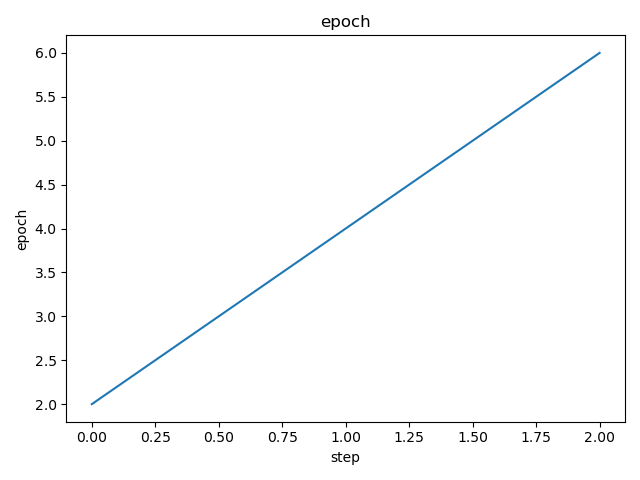
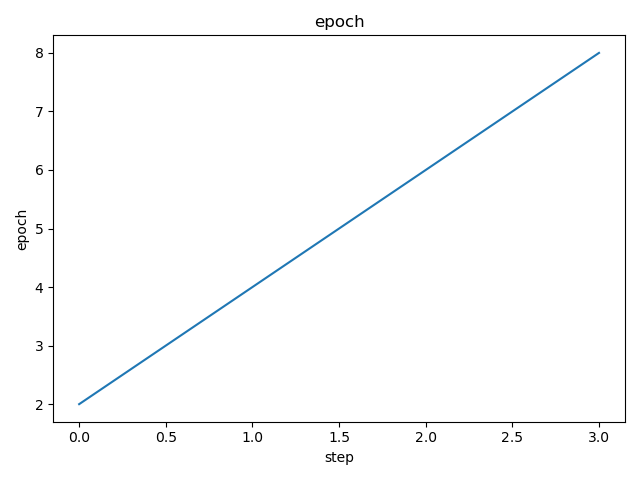
dvc: commit experiment f9097e78dc6dc1d3a90089dcf2afad87c74ec9adcf1a45dd73ff5c25e2be35ce

diff --git a/data/ogt_protein_classifier/dvclive/report.md b/data/ogt_protein_classifier/dvclive/report.md
@@ -4,7 +4,7 @@ metrics.json
 
 |   loss |   learning_rate |   epoch |   eval_loss |   eval_f1 |   eval_accuracy |   eval_matthew |   eval_runtime |   eval_samples_per_second |   eval_steps_per_second |   step |
 |--------|-----------------|---------|-------------|-----------|-----------------|----------------|----------------|---------------------------|-------------------------|--------|
-| 0.3479 |         4.4e-05 |       6 |    0.665879 |  0.727273 |           0.625 |       0.377964 |         3.3753 |                    23.702 |                   0.593 |      2 |
+| 0.2033 |         4.2e-05 |       8 |    0.680442 |  0.754717 |           0.675 |       0.460566 |         3.3089 |                    24.178 |                   0.604 |      3 |
 
 ![static/eval_steps_per_second](static/eval_steps_per_second.png)
 
